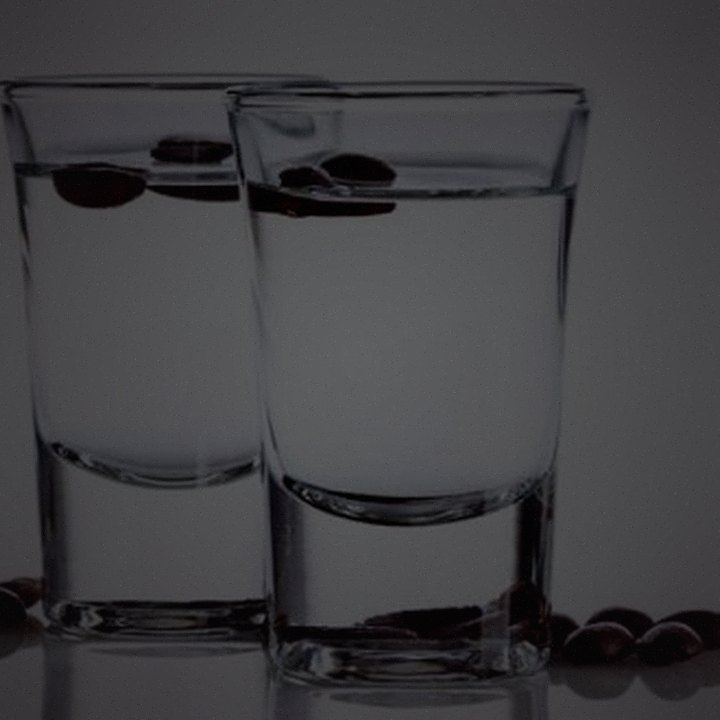
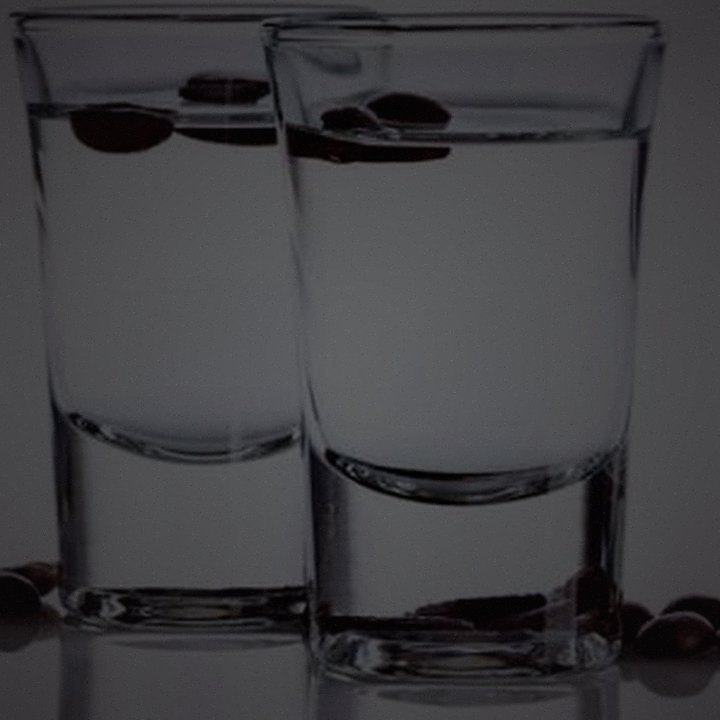
Add the real Tequila shooter and trim plates to their subject
The clear shot glass was the Tequila shooter, so it goes on that card.
Shooters is now six real photographs out of seven, with only the
Refresher Bomb still a generated tile.

It arrived as one small glass in a wide field of white, which the plate
treatment darkened into a grey tile with something in the middle of it,
because plate() had always kept the whole frame. trim_to_subject() now
finds the glass against the backdrop and takes a square around it before
the frame is graded, leaving anything the subject already fills alone —
so the Sambuca and the Jägerbomb improved, and the wines, which fill
their frames, are untouched.

lift did nothing for glassware, since a plate has no glow behind it to
burn brighter. It now sets how brightly the glass itself is lit, which
is the same job on a different treatment: a lone clear shot of a clear
spirit needs more light than a dark trio does. Every existing plate
passes 1.0, so none of them moved.

The shooter also takes the cold accent rather than the bottle's, because
the shot is clear whatever the bottle looks like.

Claude-Session: https://claude.ai/code/session_01Mz6MrYXojBN2KDtkiMzN2P

diff --git a/js/drinks-data.js b/js/drinks-data.js
@@ -147,7 +147,9 @@ export var DRINKS = [
     items: [
       { name: "Jägerbomb", tone: "amber" },
       { name: "Baby Guinness", tone: "espresso" },
-      { name: "Tequila", tone: "sunrise" },
+      // the shot is clear, whatever the bottle looks like, so it takes
+      // the same cold accent as the Sambuca beside it
+      { name: "Tequila", tone: "ice" },
       { name: "Tequila Rose", tone: "rose" },
       { name: "Sambuca", tone: "ice" },
       { name: "Flatliner", tone: "espresso" },

diff --git a/README.md b/README.md
@@ -221,7 +221,18 @@ Beyond the original hero/floors/contact, this pass adds:
   Plates fit rather than fill, because a wine glass is far taller than it is
   wide and filling a square card takes the foot off. Anything shot on a dark
   ground can always be keyed.
-  Tequila Rose is the first drink photographed **as it is served** rather
+  **A plate is trimmed to its subject first.** Keeping the whole frame is
+  right when the glass fills it and wrong when it doesn't: the Tequila
+  shooter arrived as one small glass in a wide field of white, and darkened
+  to card brightness that reads as a grey tile with something in the middle
+  of it. `trim_to_subject()` finds the glass against the backdrop, takes a
+  square around it with room to breathe, and leaves a frame the subject
+  already fills completely alone — so it improved the Sambuca and the
+  Jägerbomb and did nothing at all to the wines. `lift`, which sets how
+  brightly a bottle's glow burns, does the equivalent job on a plate and
+  sets how brightly the glass is lit; a lone clear shot of a clear spirit
+  needs more than a dark trio does.
+  Tequila Rose was the first drink photographed **as it is served** rather
   than as packaging — a shot glass with a strawberry on it, which is what
   the Shooters cards actually want. Bottles are right for the spirits
   strip; glasses are right for shooters and cocktails, and a name that
